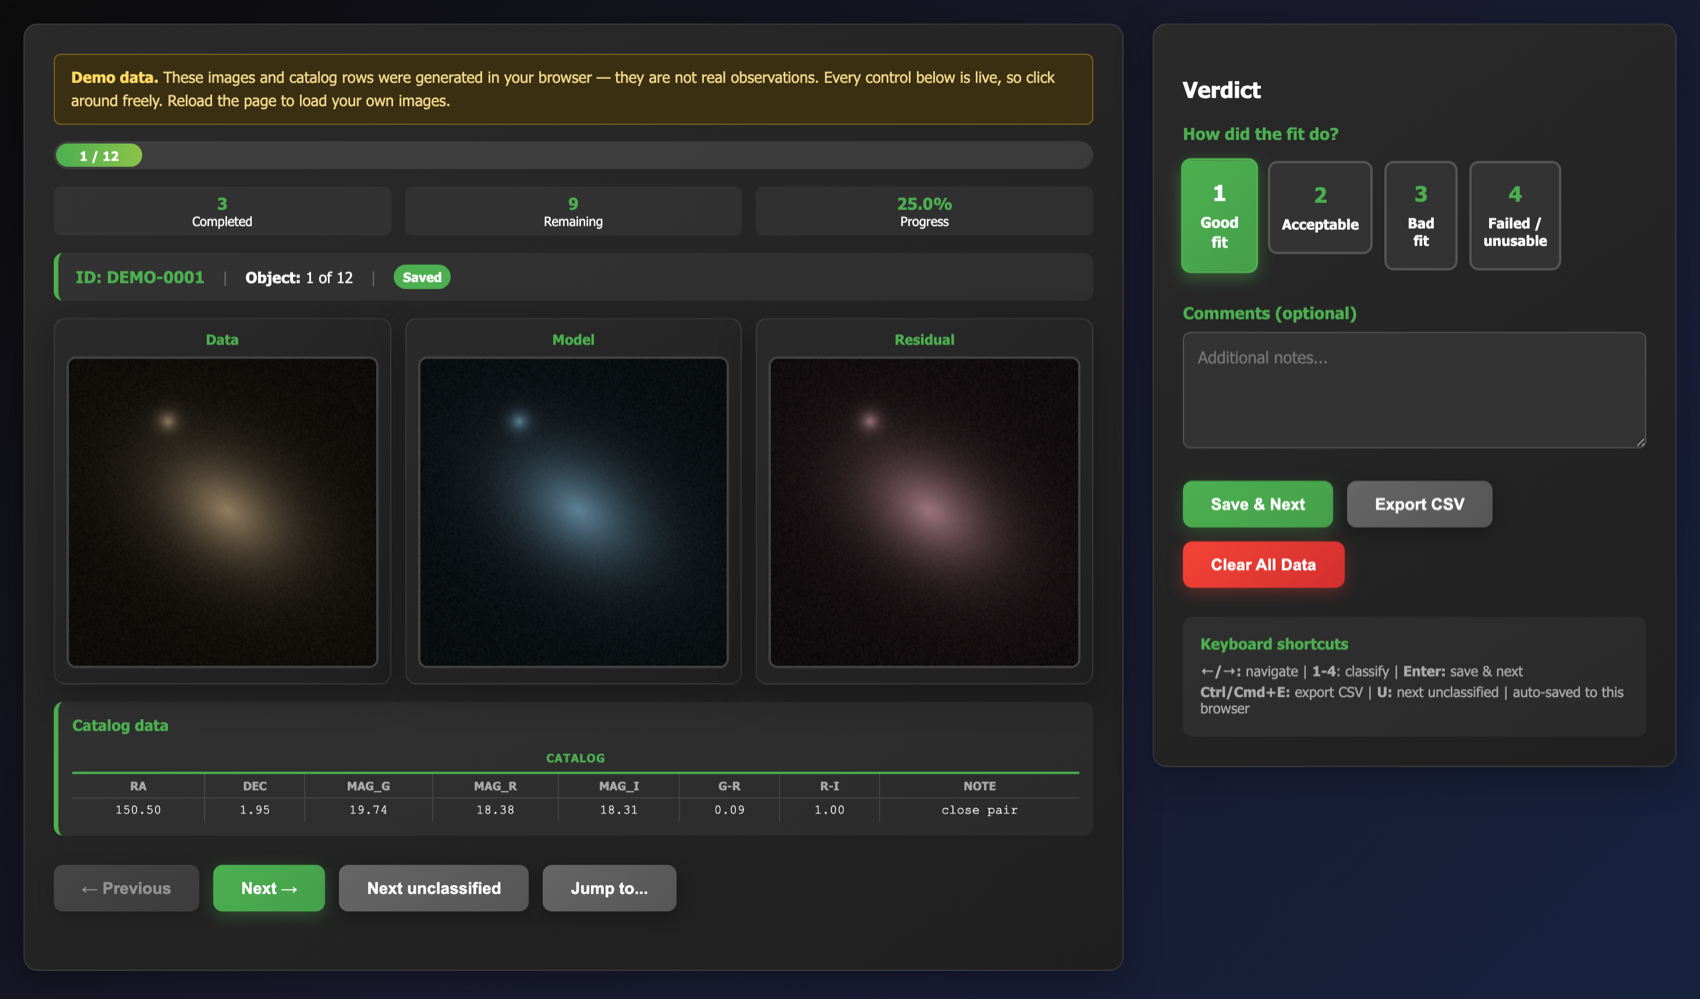
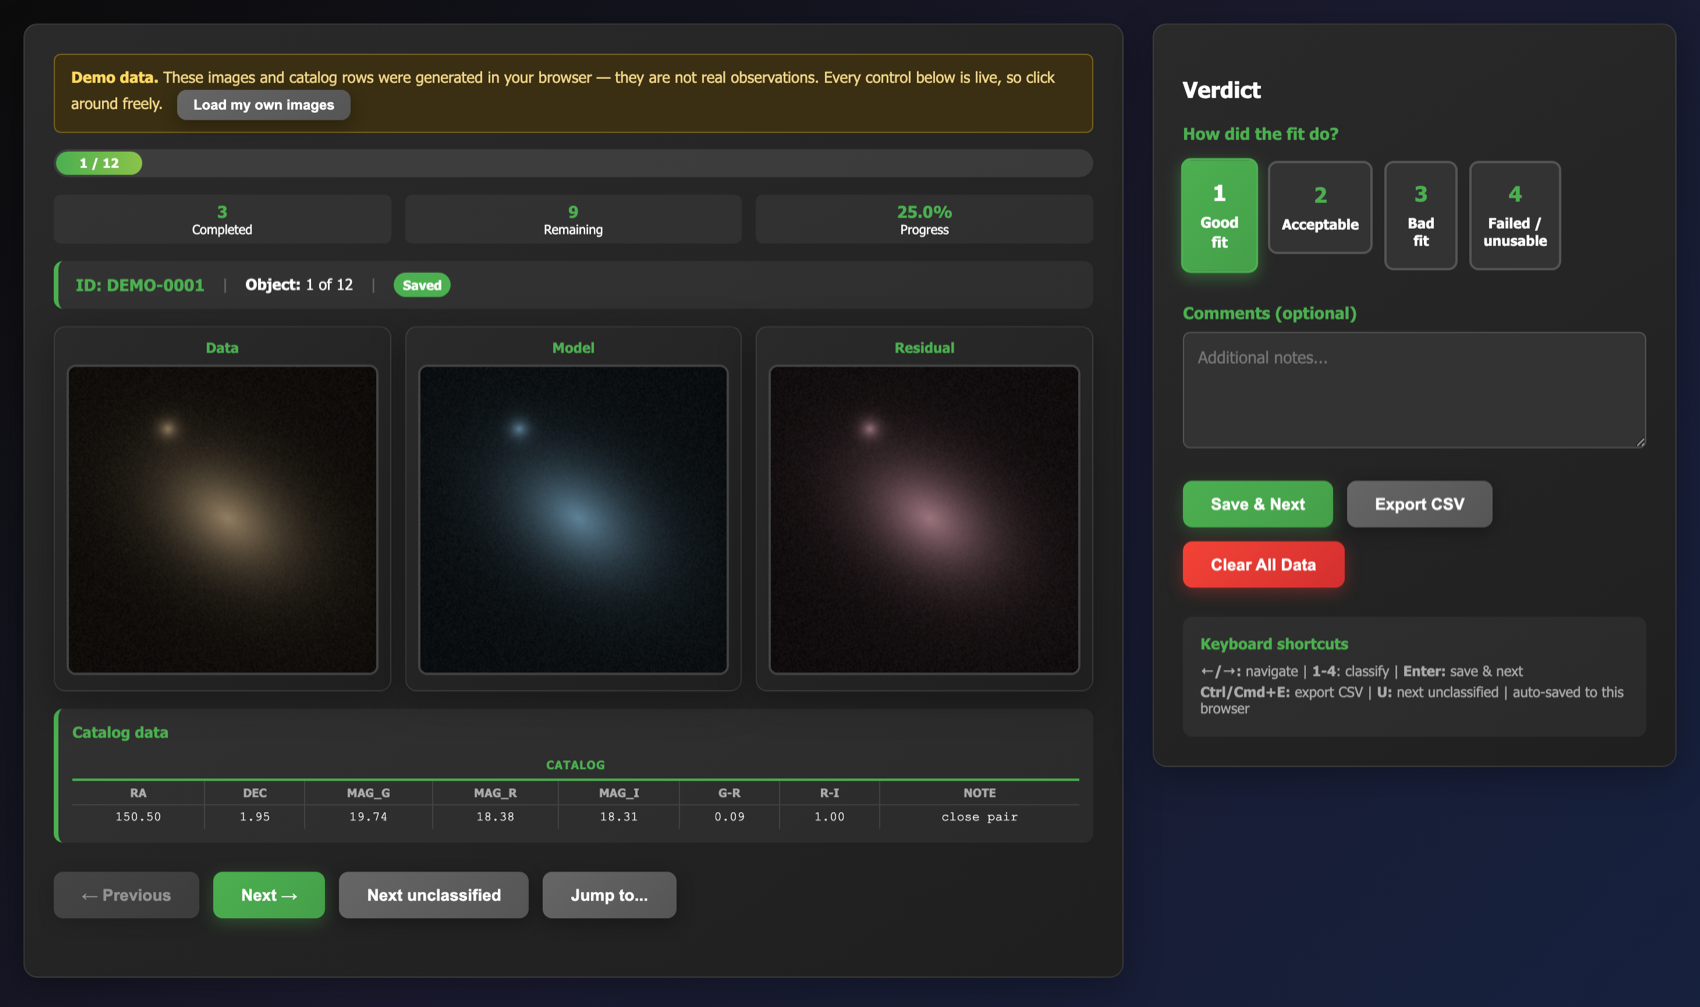
Demo: reloading returns to the setup screen
The banner told people to reload to load their own images, but the ?demo=1
link the README hands out re-entered the demo on every reload, so there was
no way back to the file pickers.

The demo now drops its own parameter from the URL as it opens, so a reload
lands on setup while the link still works for a first visit, and the banner
carries a "Load my own images" button that returns there without a reload.

Two problems this turned up:
- returning to setup left demoMode set, so a subsequent real run would have
  written its progress into the demo's storage namespace and shown demo
  catalog rows. Real and demo catalogs are now held separately and a real run
  clears the flag explicitly.
- a #demo link followed from the page itself is only a hash change and never
  re-ran the check, so nothing happened; there is now a hashchange listener.

diff --git a/index.html b/index.html
@@ -502,6 +502,7 @@
         .demo-banner { background: #3a2f12; border: 1px solid #7a6320; color: #f0d68a; border-radius: 6px;
             padding: 10px 14px; margin-bottom: 14px; font-size: 13px; line-height: 1.5; }
         .demo-banner strong { color: #ffd964; }
+        .btn-inline { padding: 6px 14px !important; font-size: 12px !important; margin-left: 8px; vertical-align: middle; }
         input[type="text"] { width: 100%; padding: 8px; border-radius: 4px; border: 1px solid #444; background: #1f1f1f; color: #eee; }
     </style>
 </head>
@@ -571,7 +572,8 @@
                 <div class="demo-banner hidden" id="demoBanner">
                     <strong>Demo data.</strong> These images and catalog rows were generated in your
                     browser &mdash; they are not real observations. Every control below is live, so click
-                    around freely. Reload the page to load your own images.
+                    around freely.
+                    <button class="btn-secondary btn-inline" onclick="returnToSetup()">Load my own images</button>
                 </div>
                 <div class="progress">
                     <div class="progress-bar" id="progressBar" style="width: 0%;">0 / 0</div>
@@ -674,6 +676,7 @@
     let currentIndex = 0;
     let catalogData = {};     // id -> { column: value }
     let catalogColumns = [];  // header order from the catalog CSV
+    let loadedCatalog = null; // the real catalog, kept aside while the demo runs
     let objects = [];         // [{ id, urls: {panelKey: url} }]
     let importedData = {};    // id -> { classification, comments }
     let inspectorName = "";
@@ -905,6 +908,7 @@
                     const id = pickId(row, headers);
                     if (id) catalogData[id] = row; else missing++;
                 });
+                loadedCatalog = { data: catalogData, columns: catalogColumns };
                 const found = Object.keys(catalogData).length;
                 if (found === 0) {
                     showMessage("No ID column found. Expected one of: " + CONFIG.idColumns.join(", ") +
@@ -943,7 +947,34 @@
         });
     });
 
+    // Back to the setup screen without a reload, from the demo or from a real run.
+    // Progress is already in localStorage, so nothing is lost.
+    function returnToSetup() {
+        demoMode = false;
+        objects = [];
+        catalogData = loadedCatalog ? loadedCatalog.data : {};
+        catalogColumns = loadedCatalog ? loadedCatalog.columns : [];
+        document.getElementById("demoBanner").classList.add("hidden");
+        document.getElementById("mainApp").classList.add("hidden");
+        document.getElementById("setupSection").classList.remove("hidden");
+        document.getElementById("setupMessages").innerHTML = "";
+        dropDemoFromUrl();
+        window.scrollTo(0, 0);
+    }
+
+    // The ?demo=1 link should open the preview once - not trap every reload in it.
+    function dropDemoFromUrl() {
+        if (!/(\?|&)demo=1\b/.test(location.search) && location.hash !== "#demo") return;
+        try {
+            const url = new URL(location.href);
+            url.searchParams.delete("demo");
+            if (url.hash === "#demo") url.hash = "";
+            history.replaceState(null, "", url.pathname + (url.search || "") + (url.hash || ""));
+        } catch (err) { /* file:// in some browsers refuses replaceState; harmless */ }
+    }
+
     function startInspection() {
+        demoMode = false;
         const byId = {};
         let any = false;
 
@@ -1295,6 +1326,7 @@
         setupImageZoom();
         seedDemoProgress();
 
+        dropDemoFromUrl();
         document.getElementById("demoBanner").classList.remove("hidden");
         document.getElementById("setupSection").classList.add("hidden");
         document.getElementById("mainApp").classList.remove("hidden");
@@ -1321,6 +1353,12 @@
     if (/(\?|&)demo=1\b/.test(location.search) || location.hash === "#demo") {
         startDemo();
     }
+
+    // A #demo link followed from this same page is only a hash change, so it never
+    // reloads and the check above never runs again.
+    window.addEventListener("hashchange", function () {
+        if (location.hash === "#demo") startDemo();
+    });
 
     </script>
 </body>

diff --git a/README.md b/README.md
@@ -28,8 +28,13 @@ The inspection screen — images side by side, catalog values underneath, catego
 **Preview with demo data** on the setup screen (or the `?demo=1` link above) generates a synthetic
 set of objects in your browser and drops you straight into the inspection screen. Every control is
 live — classify, navigate, export — so you can see exactly what the tool does before organising a
-single file. The demo images are drawn on a canvas, not real observations, and demo progress is
-kept in its own namespace so it can never mix with real work.
+single file. **Load my own images** in the banner takes you back to the setup screen when you are
+done; so does reloading.
+
+The demo images are drawn on a canvas from a fixed seed, not real observations, and demo progress
+is kept in its own storage namespace so it can never mix with real work. Every panel of a demo
+object shows the same synthetic source, differing only in colour, depth and noise — as the panels
+of a real object would.
 
 ## Quick start
 
